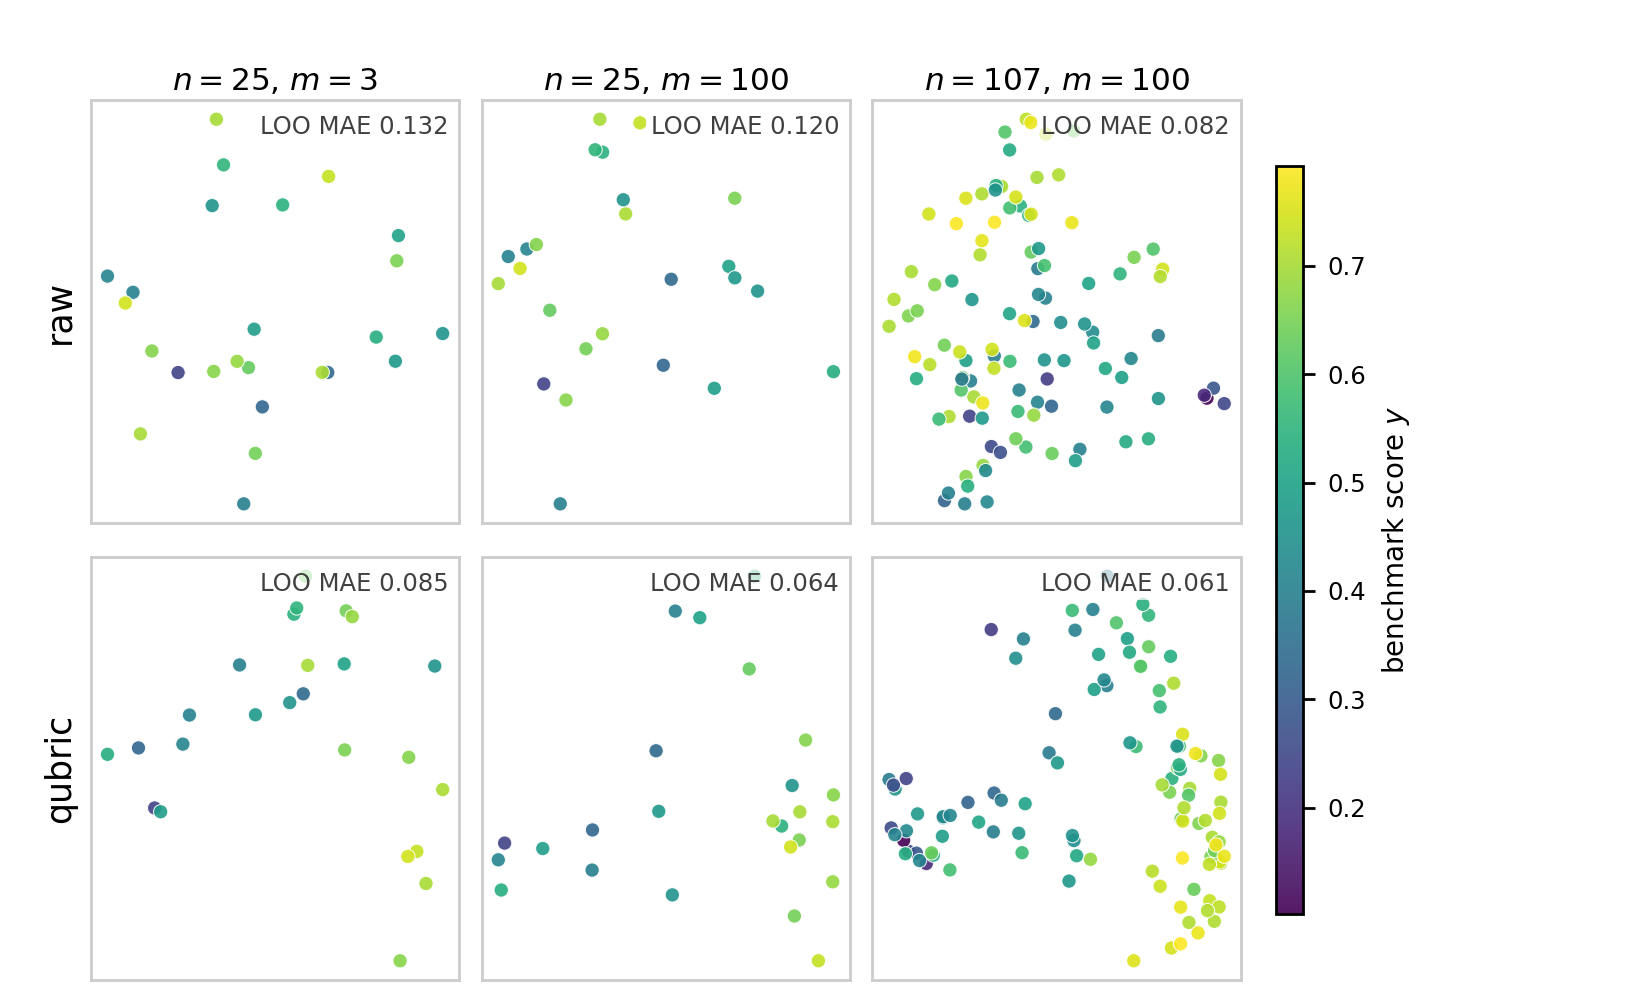
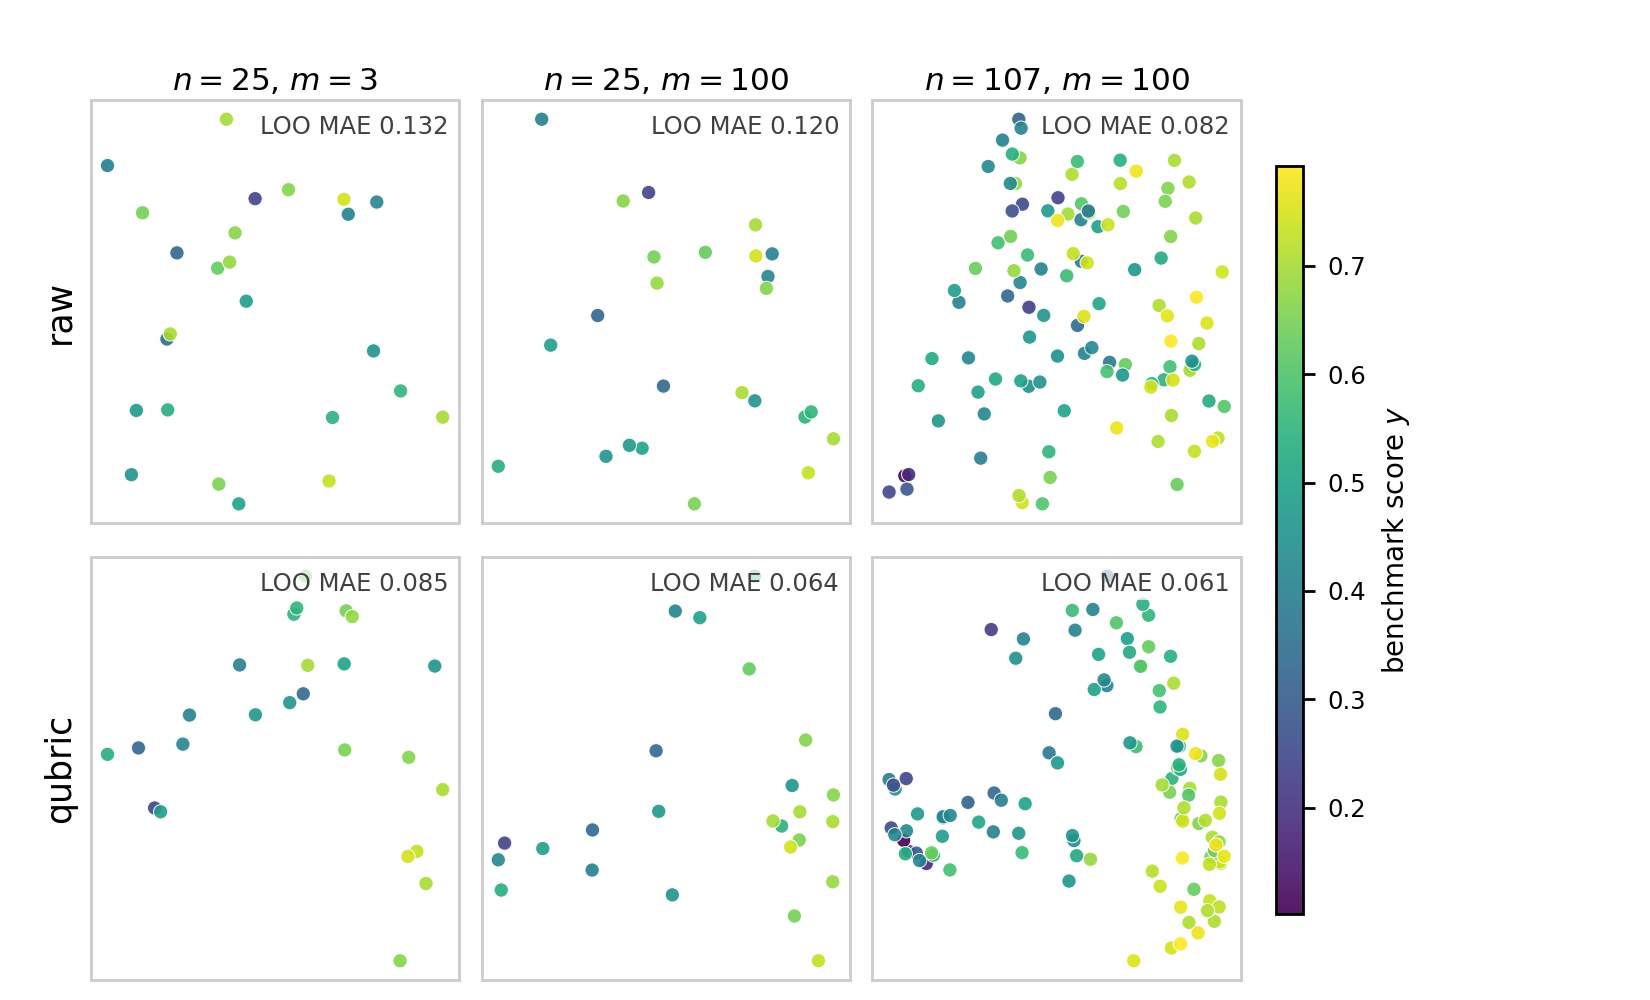
fig2: Procrustes-align raw row onto qubric's frame for cross-row comparability
Claude-Session: https://claude.ai/code/session_01RGusFFXzoPTkSKgzzDLjNv

diff --git a/scripts/fig2_nm.py b/scripts/fig2_nm.py
@@ -90,8 +90,13 @@ def main():
     fig, axes = plt.subplots(2, 3, figsize=(6.6, 4.0))
     fig.subplots_adjust(left=.055, right=.90, top=.90, bottom=.02,
                         wspace=.06, hspace=.08)
-    for r, (rname, X) in enumerate([('raw', raw), ('qubric', qub)]):
-        ref_full = cmds2(pkps_D(X, np.arange(M), np.arange(Q)))
+    # row references: qubric's full configuration anchors the figure; the
+    # raw row's reference is rotated onto it so the rows are comparable
+    ref_qub = cmds2(pkps_D(qub, np.arange(M), np.arange(Q)))
+    ref_raw = procrustes(cmds2(pkps_D(raw, np.arange(M), np.arange(Q))),
+                         ref_qub)
+    for r, (rname, X, ref_full) in enumerate([('raw', raw, ref_raw),
+                                              ('qubric', qub, ref_qub)]):
         for c, (n, m, cname) in enumerate(CELLS):
             sub = np.sort(sys_order[:n])
             cols = np.sort(task_order[:m])
